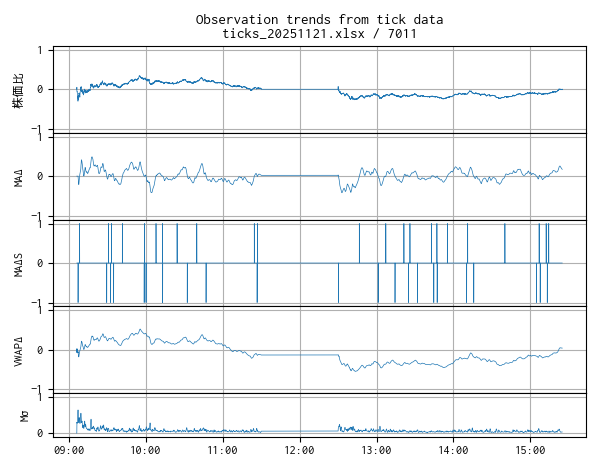
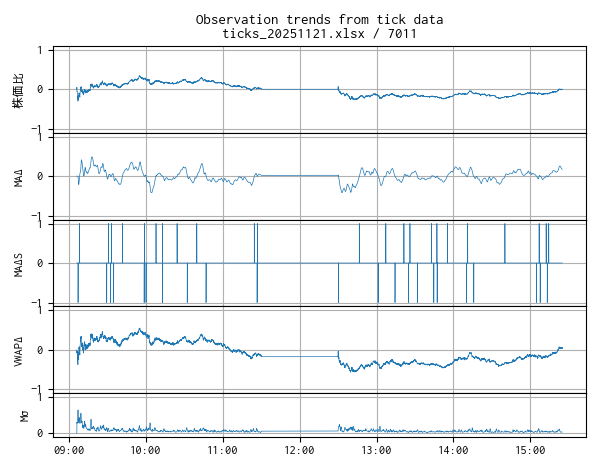
update

diff --git a/eval_inference.py b/eval_inference.py
@@ -1,3 +1,4 @@
+import os
 import sys
 
 from matplotlib import dates as mdates
@@ -133,7 +134,7 @@ if __name__ == "__main__":
     # file = "ticks_20250819.xlsx"
     # file = "ticks_20250828.xlsx"
     # file = "ticks_20251006.xlsx"
-    file = "ticks_20251119.xlsx"
+    file = sorted(os.listdir(res.dir_collection))[-1:][0]
     code = "7011"
 
     print(f"過去データ {file} の銘柄 {code} について推論します。")
@@ -174,6 +175,6 @@ if __name__ == "__main__":
     df_obs = pd.concat([pd.Series(row) for row in agent.results["obs"]], axis=1).T
     rows = df_obs.shape[1]
     print(f"観測数 : {rows}")
-    list_name =agent.env.obs_man.getObsList()
+    list_name = agent.env.obs_man.getObsList()
     df_obs.columns = list_name
     plot_obs_trend(df_obs)

diff --git a/modules/feature_provider.py b/modules/feature_provider.py
@@ -138,8 +138,7 @@ class FeatureProvider:
         if self.vwap == 0.0:
             return 0.0
         else:
-            ma = self.getMA(60)
-            return (ma - self.vwap) / self.vwap
+            return (self.price - self.vwap) / self.vwap
 
     def resetHoldCounter(self):
         self.n_hold = 0.0  # 建玉なしの HOLD カウンタ
